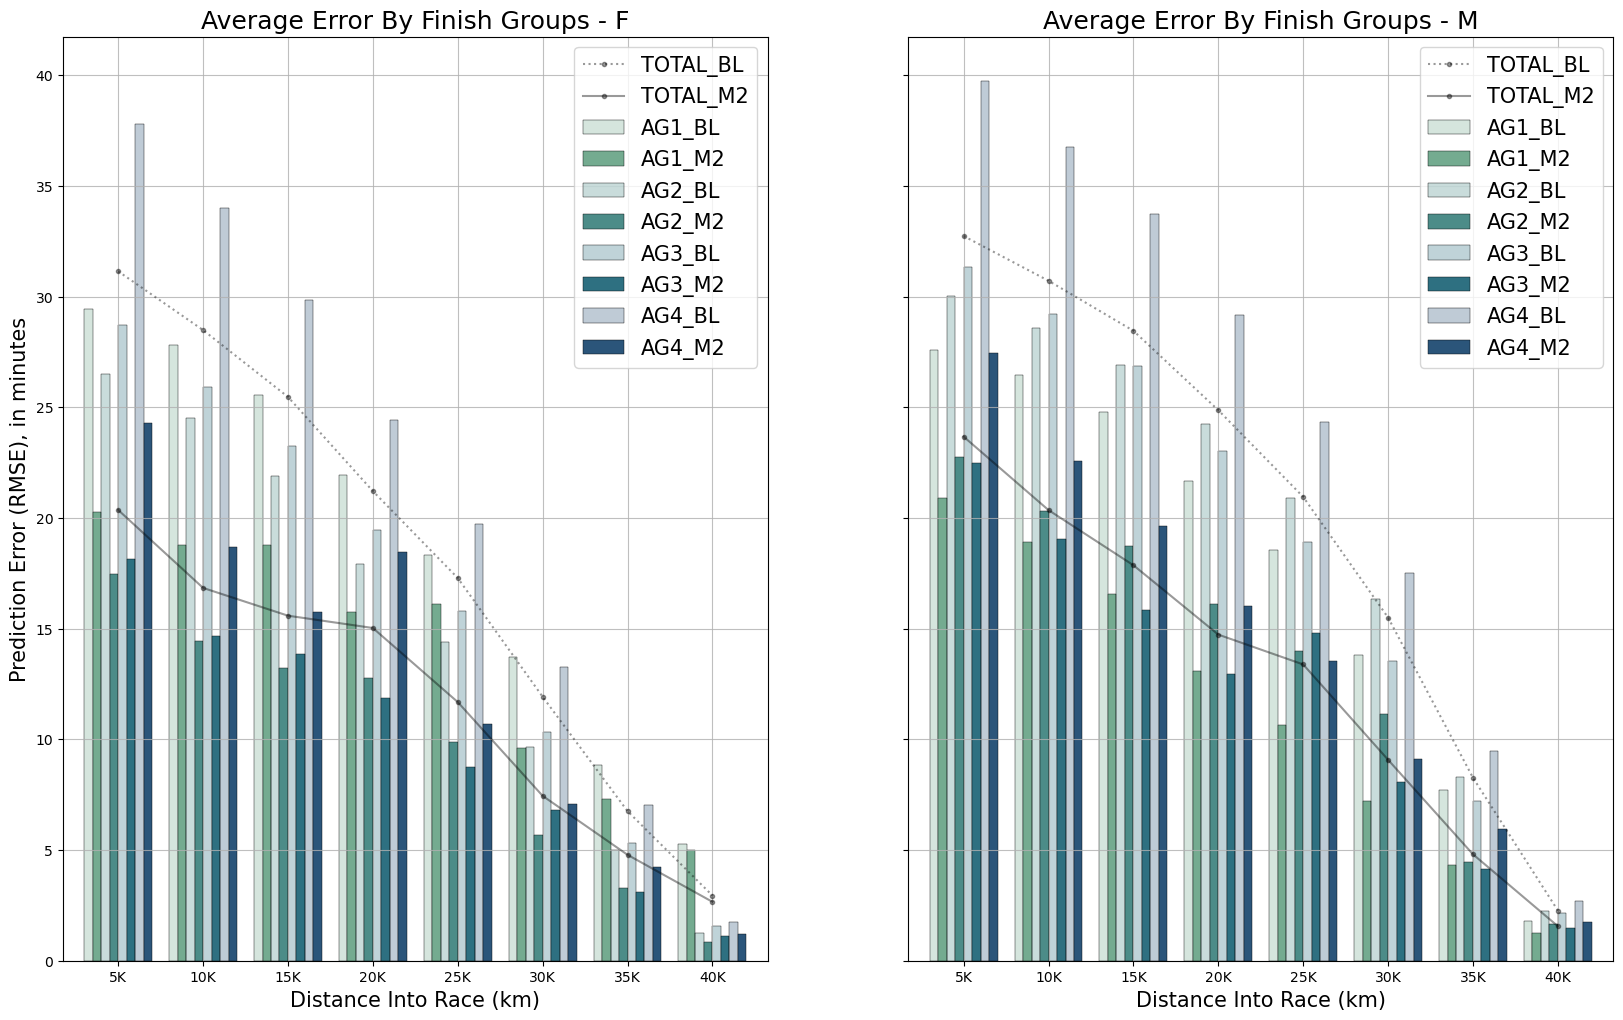
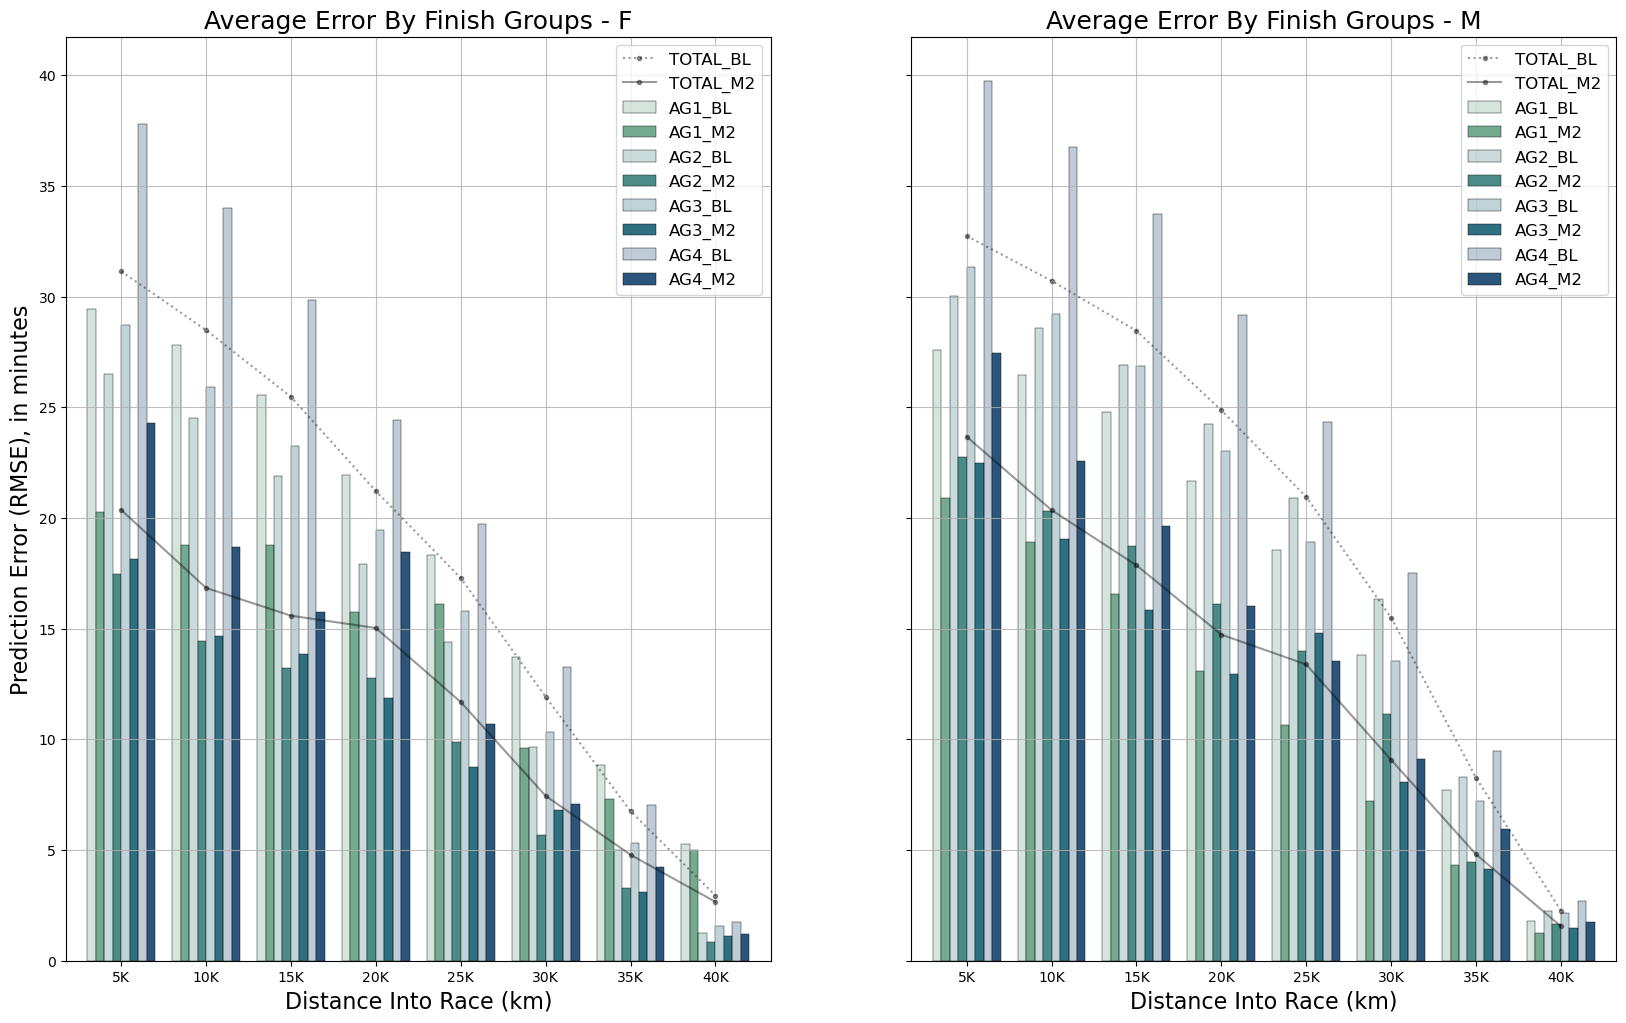
Update label sizes of plots

diff --git a/plots.py b/plots.py
@@ -32,11 +32,11 @@ def get_plot_dist(races=["bos", "nyc", "chi",], yrs=[2021, 2022, 2023, 2024]):
     # ax.set_facecolor(("orange", 0.05))
     labels = [int_to_str_time(60 * t, no_secs=True) for t in ticks]
     
-    plt.xticks(ticks, labels=labels, fontsize=12)
-    plt.yticks(fontsize=12)
+    plt.xticks(ticks, labels=labels, fontsize=15)
+    plt.yticks(fontsize=15)
     plt.xlim(ticks[1] - 15, ticks[-2] - 45)
-    plt.xlabel(f"Time (HH:MM)", fontsize=15)
-    plt.ylabel("Frequency", fontsize=15)
+    plt.xlabel(f"Time (HH:MM)", fontsize=16)
+    plt.ylabel("Frequency", fontsize=16)
     plt.title(f"Distribution of Marathon Finish Times", fontsize=18)
     plt.legend(fontsize=15)
     plt.savefig(f"analysis/plots/plot_dist.png")
@@ -185,10 +185,10 @@ def plot_finish_age_gender(test_data, model: str, baseline: str, num=4, overall=
             ax[i].plot(range(8), rmse[model], color="black", alpha=0.4, linestyle='-',  marker=".", label=f"TOTAL_{model}")
 
         #ax[i].set(xlabel="Distance Into Race (km)", ylabel="Prediction Error (RMSE), in minutes", title=f"Average Error By Finish Groups - {g}") # , ylim=(0.2, 1)
-        ax[i].set_xlabel("Distance Into Race (km)", fontsize=15)
-        ax[i].set_ylabel("Prediction Error (RMSE), in minutes", fontsize=15)
+        ax[i].set_xlabel("Distance Into Race (km)", fontsize=16)
+        ax[i].set_ylabel("Prediction Error (RMSE), in minutes", fontsize=16)
         ax[i].set_title(f"Average Error By Finish Groups - {g}", fontsize=18)
-        ax[i].legend(fontsize=15)
+        ax[i].legend(fontsize=12)
         ax[i].grid(alpha=0.8)
         ax[i].set_xticklabels(mks, rotation=0)
 
